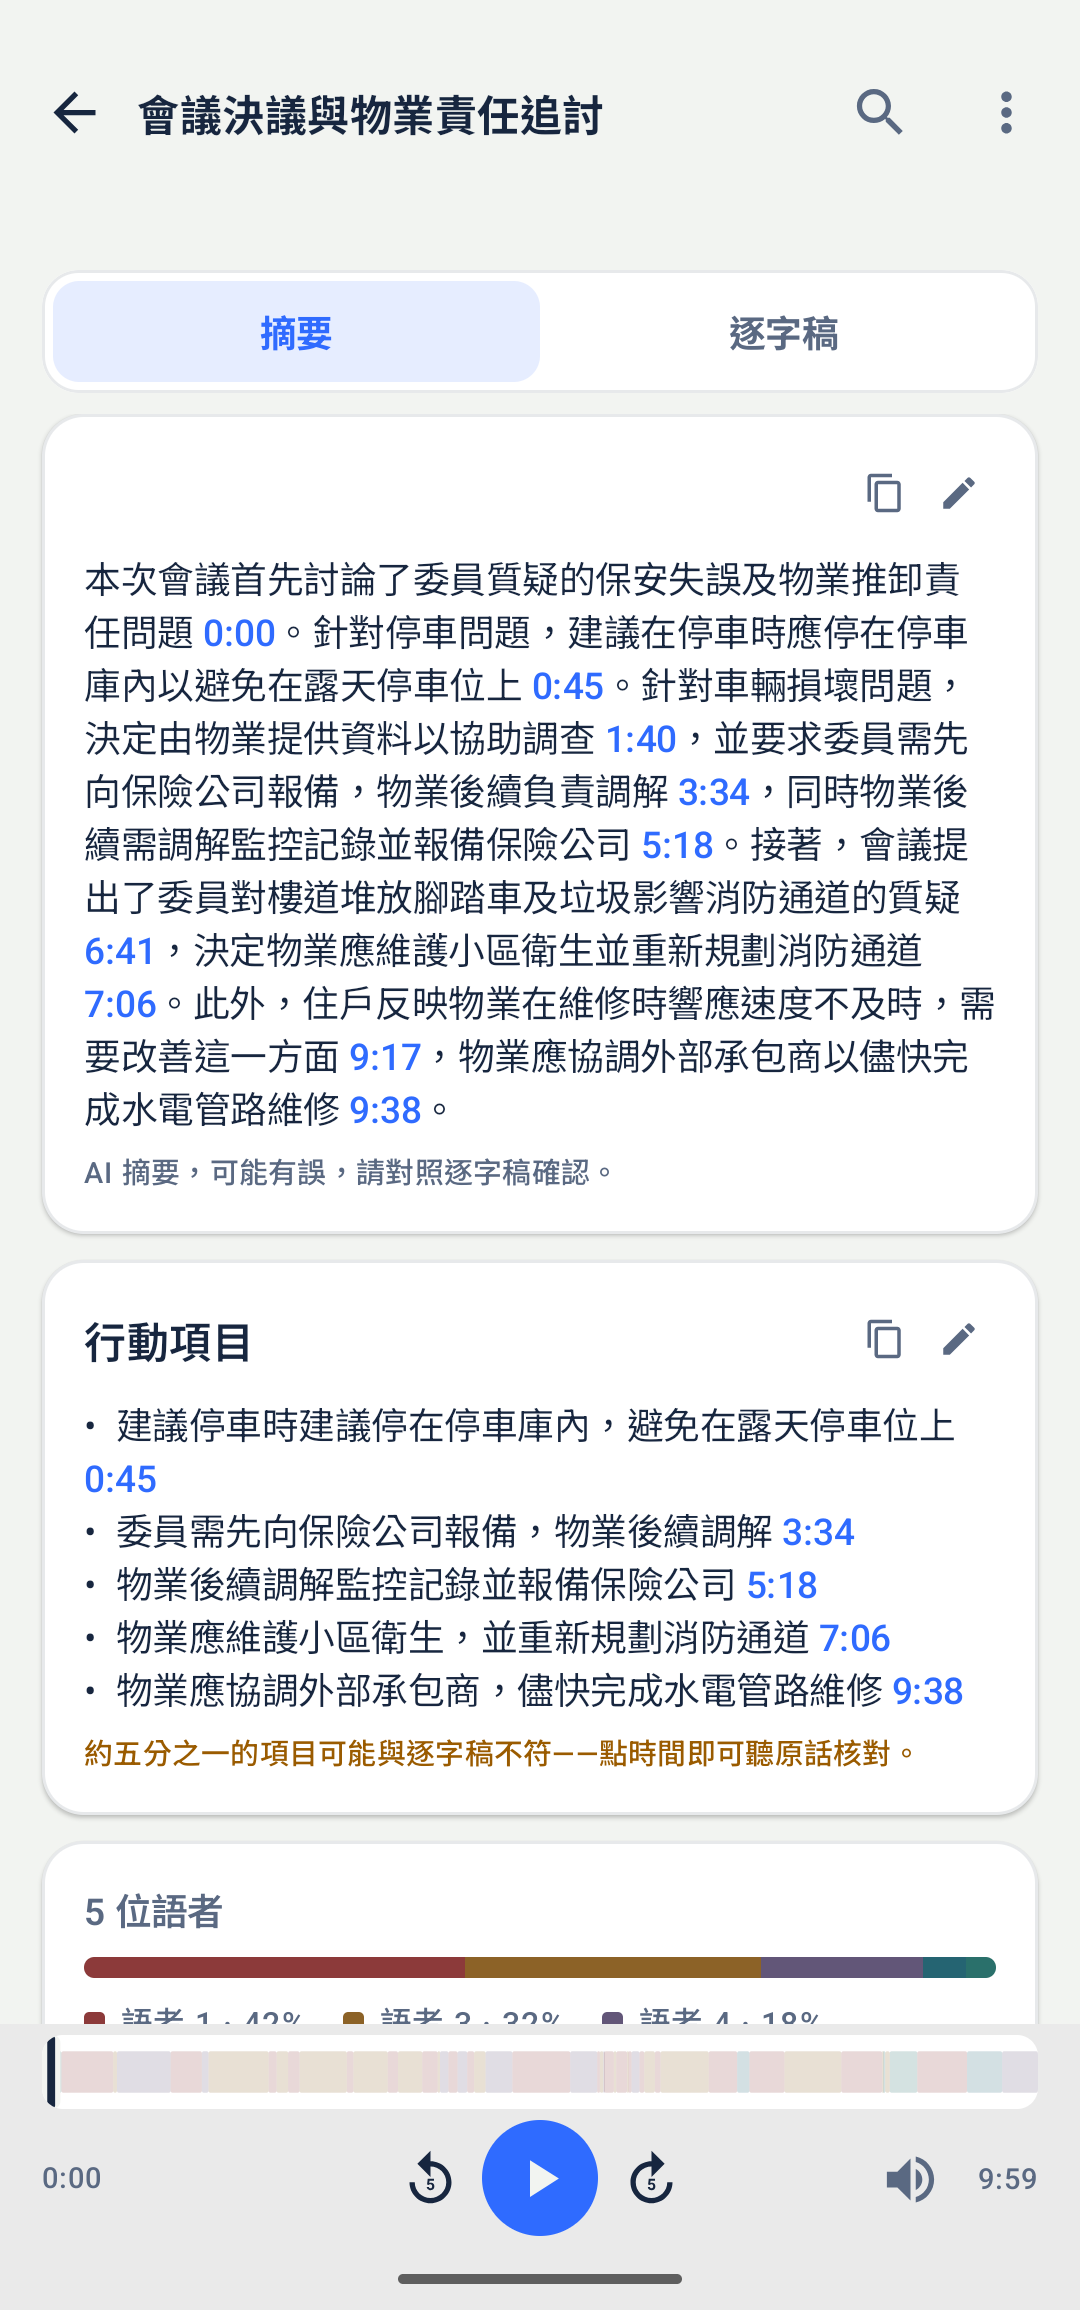
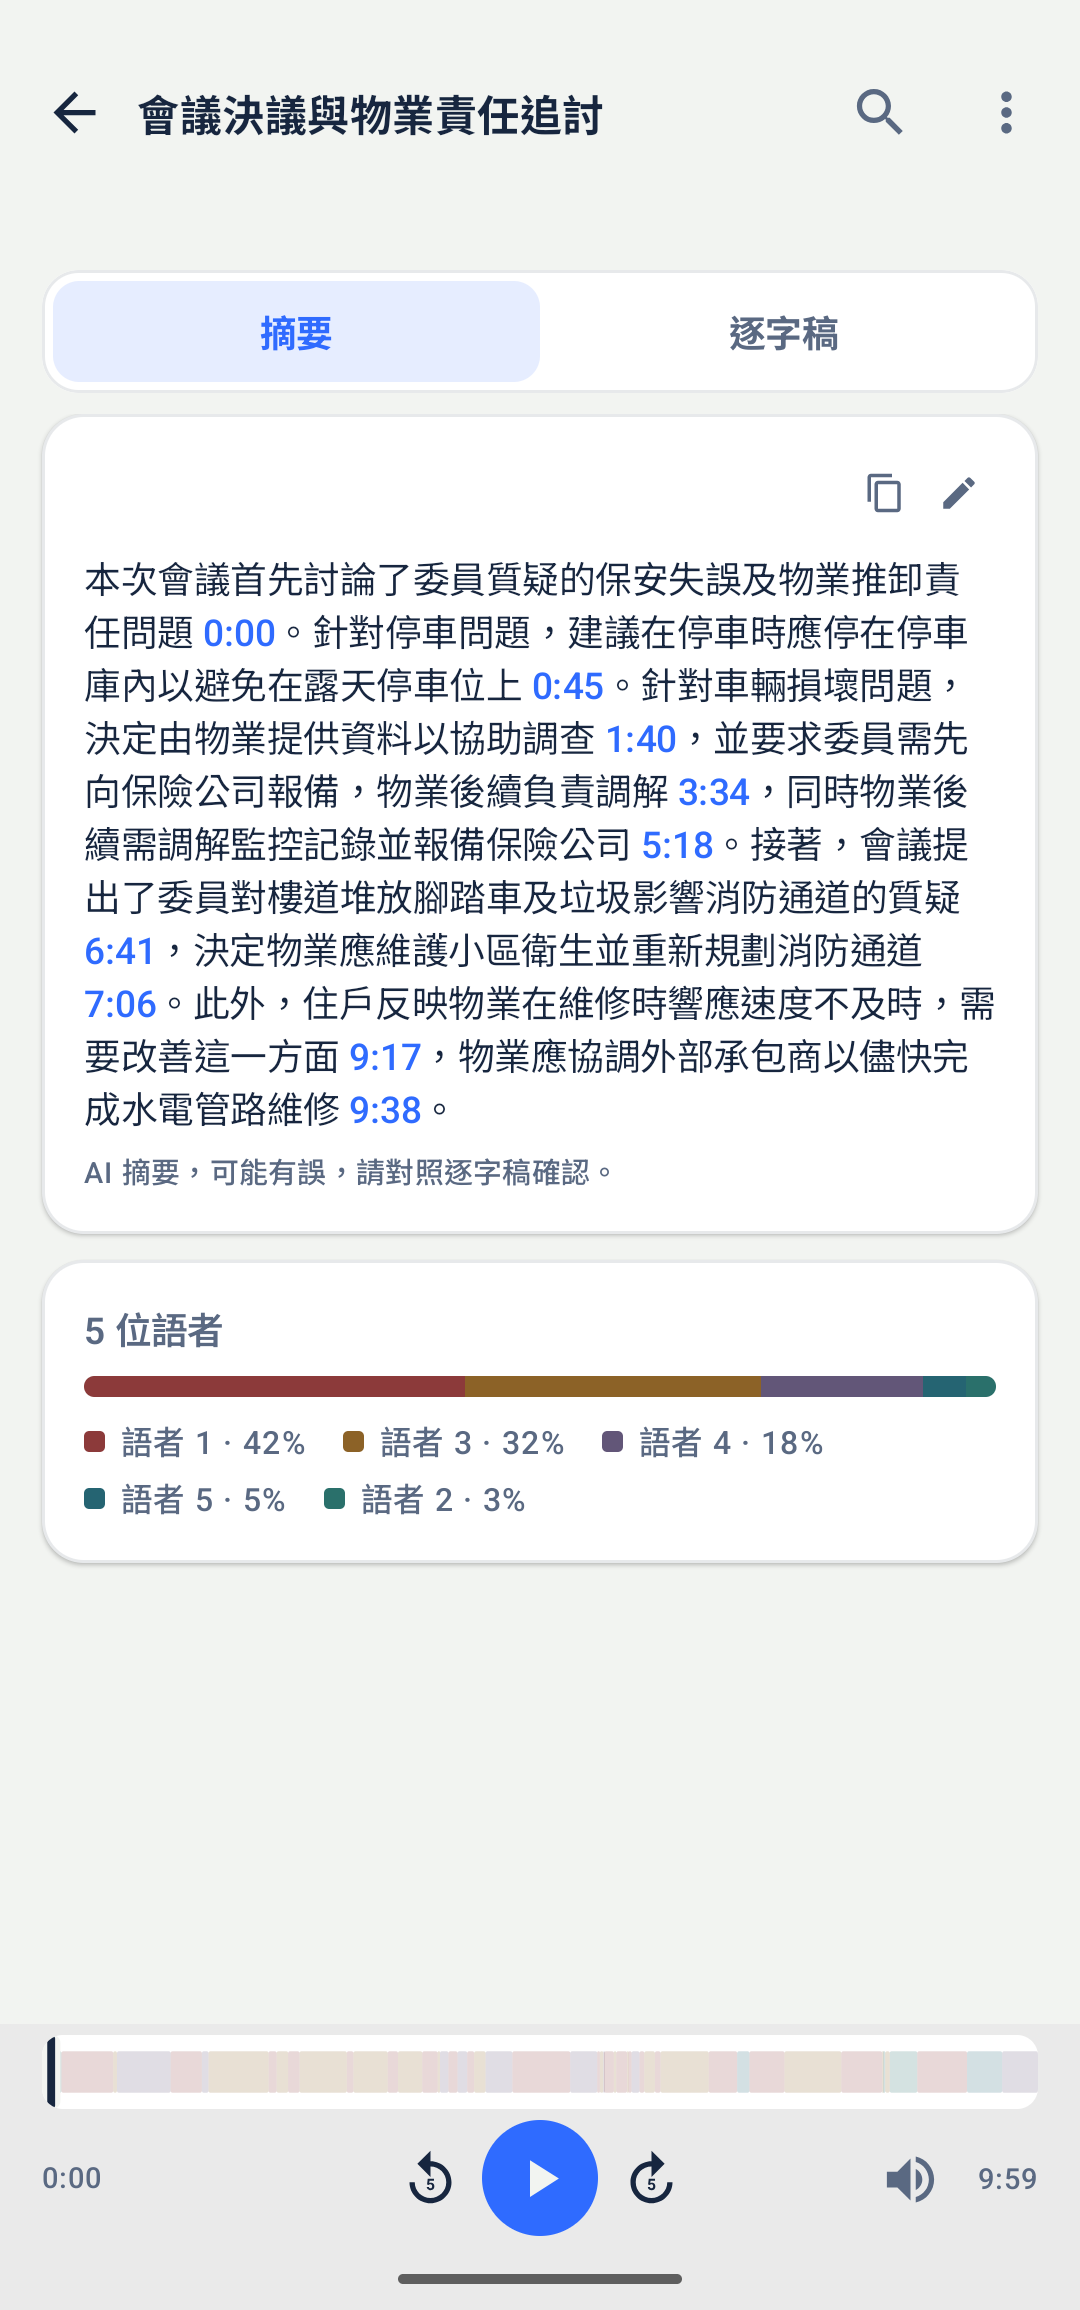
docs: agent showcase shows only the full panel (no duplicate 'meeting agent' card); reshoot 05-agent, summary and demo without the actions card; README says action items are an opt-in experiment
Claude-Session: https://claude.ai/code/session_01FTPZWryYGhBFouGpM2DEme

Changed region(s): [[0.0611, 0.561, 0.9167, 0.7792], [0.0611, 0.8104, 0.9167, 0.8727]]

diff --git a/app/src/androidTest/java/studio/voxsum/AgentPanelShowcase.kt b/app/src/androidTest/java/studio/voxsum/AgentPanelShowcase.kt
@@ -26,7 +26,6 @@ import studio.voxsum.core.reader.AgentState
 import studio.voxsum.core.reader.DropReason
 import studio.voxsum.core.reader.Note
 import studio.voxsum.ui.AgentPanel
-import studio.voxsum.ui.AgentStrip
 import studio.voxsum.ui.AgentUiState
 import studio.voxsum.ui.theme.LocalVoxSumPalette
 import studio.voxsum.ui.theme.VoxSumTheme
@@ -57,7 +56,8 @@ class AgentPanelShowcase {
                         .verticalScroll(rememberScrollState()).padding(16.dp),
                     verticalArrangement = Arrangement.spacedBy(12.dp),
                 ) {
-                    AgentStrip(agent)
+                    // Only the full panel (as on the Summary tab). The compact strip belongs to the
+                    // recording booth — stacked here it read as two cards with the same title.
                     Card(
                         colors = CardDefaults.cardColors(containerColor = pal.PanelSurface),
                         shape = RoundedCornerShape(16.dp),

diff --git a/README.md b/README.md
@@ -44,7 +44,7 @@
 
 <p align="center"><img src="docs/screenshots/04-summary.png" width="280" alt="摘要"></p>
 
-段落式摘要，每個藍色時間點一下即從該處播放；下方是各語者的發言比例。行動項目在「行動項目」分頁。
+段落式摘要，每個藍色時間點一下即從該處播放；下方是各語者的發言比例。行動項目為實驗功能，預設隱藏，可在「設定 → 實驗功能」開啟，開啟後列在摘要下方。
 
 ### 逐字稿
 
